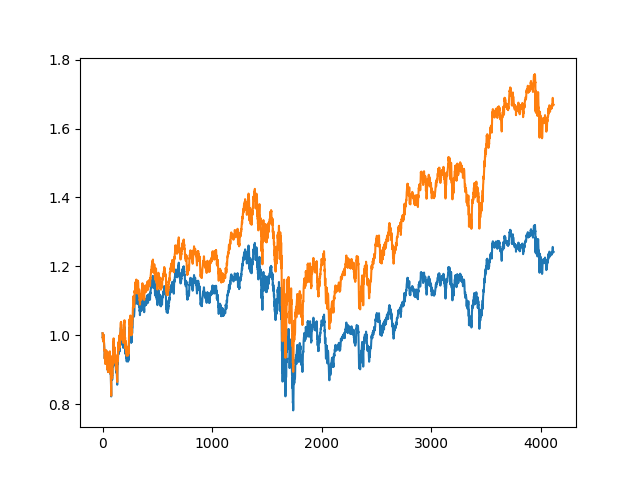
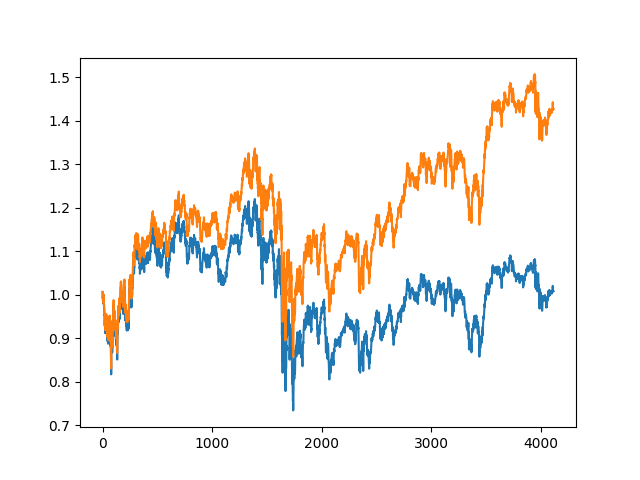
best for now

diff --git a/main.py b/main.py
@@ -21,6 +21,7 @@ def train(env,agent,num_episodes,args):
             agent.reset()
             while not done:
                 next_weights = agent.get_action(obs,weights)
+         
                 obs_, reward, done, _ = env.step(next_weights.detach().numpy())
                 # pv_vector = torch.sum(weights*torch.from_numpy(np.array(env.future_prices,dtype=np.float16)))
                 agent.store_transition(obs, weights.detach(), reward, obs_ )
@@ -61,13 +62,13 @@ def get_args():
     parser = argparse.ArgumentParser()
 
     parser.add_argument('--assets_number', type = int, default = 28, help='number of assets')
-    parser.add_argument('--trading_window_size',type = int, default = 10, help= 'number of last n trades taking in consideration')
-    parser.add_argument('--gamma', type = float, default = 0.99, help='discount factor')
+    parser.add_argument('--trading_window_size',type = int, default = 31, help= 'number of last n trades taking in consideration')
+    parser.add_argument('--gamma', type = float, default = 0.98, help='discount factor')
     parser.add_argument('--device', type=str, default='cpu', help='gpu/cpu')
     parser.add_argument('--num_episodes', type=int, default=1000, help='number of training episodes')    
     parser.add_argument('--batch_size', type=int, default=32, help='batch size') 
-    parser.add_argument('--actor_lr', type=float, default=1e-3, help='actor learning rate')
-    parser.add_argument('--critic_lr', type=float, default=1e-2, help='critic learning rate')
+    parser.add_argument('--actor_lr', type=float, default=1e-4, help='actor learning rate')
+    parser.add_argument('--critic_lr', type=float, default=1e-3, help='critic learning rate')
     parser.add_argument('--actor_weight_decay', type=float, default=0, help='L2 regularization on actor model weights')
     parser.add_argument('--critic_weight_decay', type=float, default=0, help='L2 regularization on critic model weights')
     parser.add_argument('--train_start_date', type=str,default = '2002-04-01', help='training start date (format: %YYYY-mm-dd)')
@@ -83,8 +84,8 @@ def get_args():
     parser.add_argument('--gnn_hidden_channels',type = str,default='8,8,8', help = 'hidden channel sizes (format: 16,16,16)')
     parser.add_argument('--gnn_output_channels',type = int, default = 3, help = 'gnn output channels')
     parser.add_argument('--mem_size',type = int, default = 5000, help = 'memory size')
-    parser.add_argument('--sample_bias', type=float, default = 1e-5,help = 'sample bias')
-    parser.add_argument('--number_of_batches', type=int, default = 5, help = 'number of minibatches in agent learning')
+    parser.add_argument('--sample_bias', type=float, default = 5e-5,help = 'sample bias')
+    parser.add_argument('--number_of_batches', type=int, default = 3, help = 'number of minibatches in agent learning')
 
     args = parser.parse_args()
 

diff --git a/agent/actor.py b/agent/actor.py
@@ -8,10 +8,13 @@ class Actor(nn.Module):
     def __init__(self,in_channels,number_of_assets,trading_window_size,actor_lr,actor_weight_decay):
         super(Actor, self).__init__()
         self.conv1 = nn.Conv2d(in_channels,3,kernel_size=(1,3))
+        #self.batch_norm1 = nn.BatchNorm2d(3)
         self.conv2 = nn.Conv2d(3,3, kernel_size=(1,trading_window_size-2))
+        #self.batch_norm2 = nn.BatchNorm2d(3)
         self.conv3 = nn.Conv2d(4,1,kernel_size=(1,1))
         self.number_of_assets = number_of_assets
         self.trading_window_size = trading_window_size
+        self.alpha = nn.Parameter(torch.tensor(0.0),requires_grad = True)
         self.optimizer = optim.Adam(self.parameters(),lr = actor_lr,weight_decay = actor_weight_decay)
 
     def forward(self, x, prev_weigths, learn = False):
@@ -19,15 +22,23 @@ class Actor(nn.Module):
         if learn == False:
             x = x.unsqueeze(0)
         x = torch.tanh(self.conv1(x))
+        #x = self.batch_norm1(x)
         x = torch.tanh(self.conv2(x))
+        #x = self.batch_norm2(x)
+        
         if learn:
             c = prev_weigths[:,1:].unsqueeze(-1).unsqueeze(0).permute(1,0,2,3)
-            c = torch.cat([c,x],dim = 1)
-
-            print(c.shape)
-        x = torch.cat((prev_weigths[1:].unsqueeze(-1).unsqueeze(0),x.squeeze(0)),0).unsqueeze(0)
+            x = torch.cat([c,x],dim = 1)
+        else:
+            x = torch.cat((prev_weigths[1:].unsqueeze(-1).unsqueeze(0),x.squeeze(0)),0).unsqueeze(0)
+        
         x = torch.tanh(self.conv3(x))
-        x = torch.cat(([1].unsqueeze(0).unsqueeze(-1),x.squeeze(0).squeeze(0)))
+        if learn:
+            cash = torch.ones((32,1,1,1)) * self.alpha
+            x = torch.cat([cash, x], -2)
+            
+        else:
+            x = torch.cat((torch.tensor(self.alpha).unsqueeze(0).unsqueeze(-1),x.squeeze(0).squeeze(0)))
 
         return torch.softmax(x,dim = 0).reshape(-1)
 

diff --git a/agent/agent.py b/agent/agent.py
@@ -32,20 +32,17 @@ class Agent():
         return states, actions, rewards, states_
     
     def learn(self):
-        if self.memory.mem_cntr%501 != 0 :
+        if self.memory.mem_cntr%51 != 0 :
             return
 
-        actor_loss = 0
-        critic_loss = 0
-        self.critic.optimizer.zero_grad()
-        self.actor.optimizer.zero_grad()   
         
-
-        states, actions, rewards, states_, = self.sample_memory()
         for _ in range(self.nb):
+            self.critic.optimizer.zero_grad()
+            self.actor.optimizer.zero_grad()
+            states, actions, rewards, states_, = self.sample_memory()
             q_pred = self.critic(states)
             q_next = self.critic(states_)
-            adv =  rewards + self.gamma* q_next - q_pred
+            adv =  rewards + self.gamma* q_next.detach() - q_pred.detach()
 
             critic_loss = torch.mean(torch.mul(adv,q_pred))
             # x = actions.clone().detach()
@@ -55,6 +52,7 @@ class Agent():
             # mean = torch.clip(mean, min = 1e-6, max = 60)
             # std = torch.clip(std,min = 1e-6,max = 30)
             # dist = Normal(mean,std)
+            
             actions = self.get_action(states,actions,learn = True)
             actor_loss = -1*torch.mean(torch.log(torch.mean(actions))*adv.detach())
             #actor_loss = -1*torch.mean(torch.sum(dist.log_prob(actions)) * adv.clone().detach())

diff --git a/agent/replay_memory.py b/agent/replay_memory.py
@@ -26,7 +26,11 @@ class ReplayBuffer():
 
     def sample_buffer(self):
         end = self.mem_cntr - self.batch_size
-        index = np.random.randint(0,end)
+        index = np.random.geometric(self.sample_bias)
+        while index > end:
+            index = np.random.geometric(self.sample_bias)
+
+        # index = np.random.randint(0,end)
         return self.state_memory[index:index+self.batch_size], self.action_memory[index:index+self.batch_size],  self.reward_memory[index:index+self.batch_size], self.new_state_memory[index:index+self.batch_size]
     
     def reset(self):
